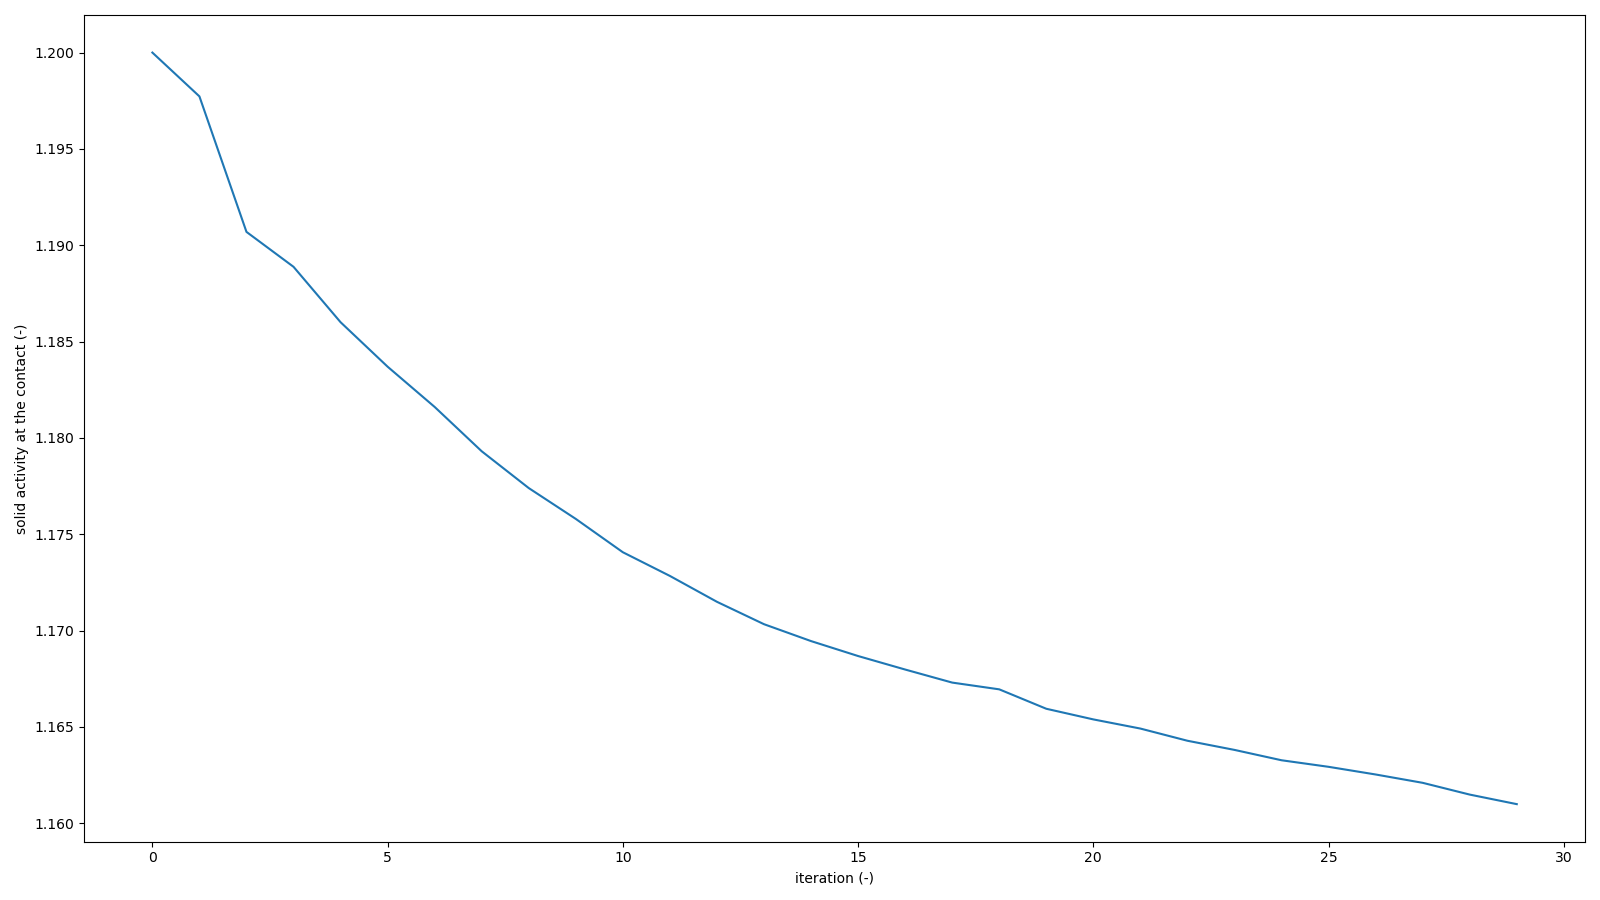
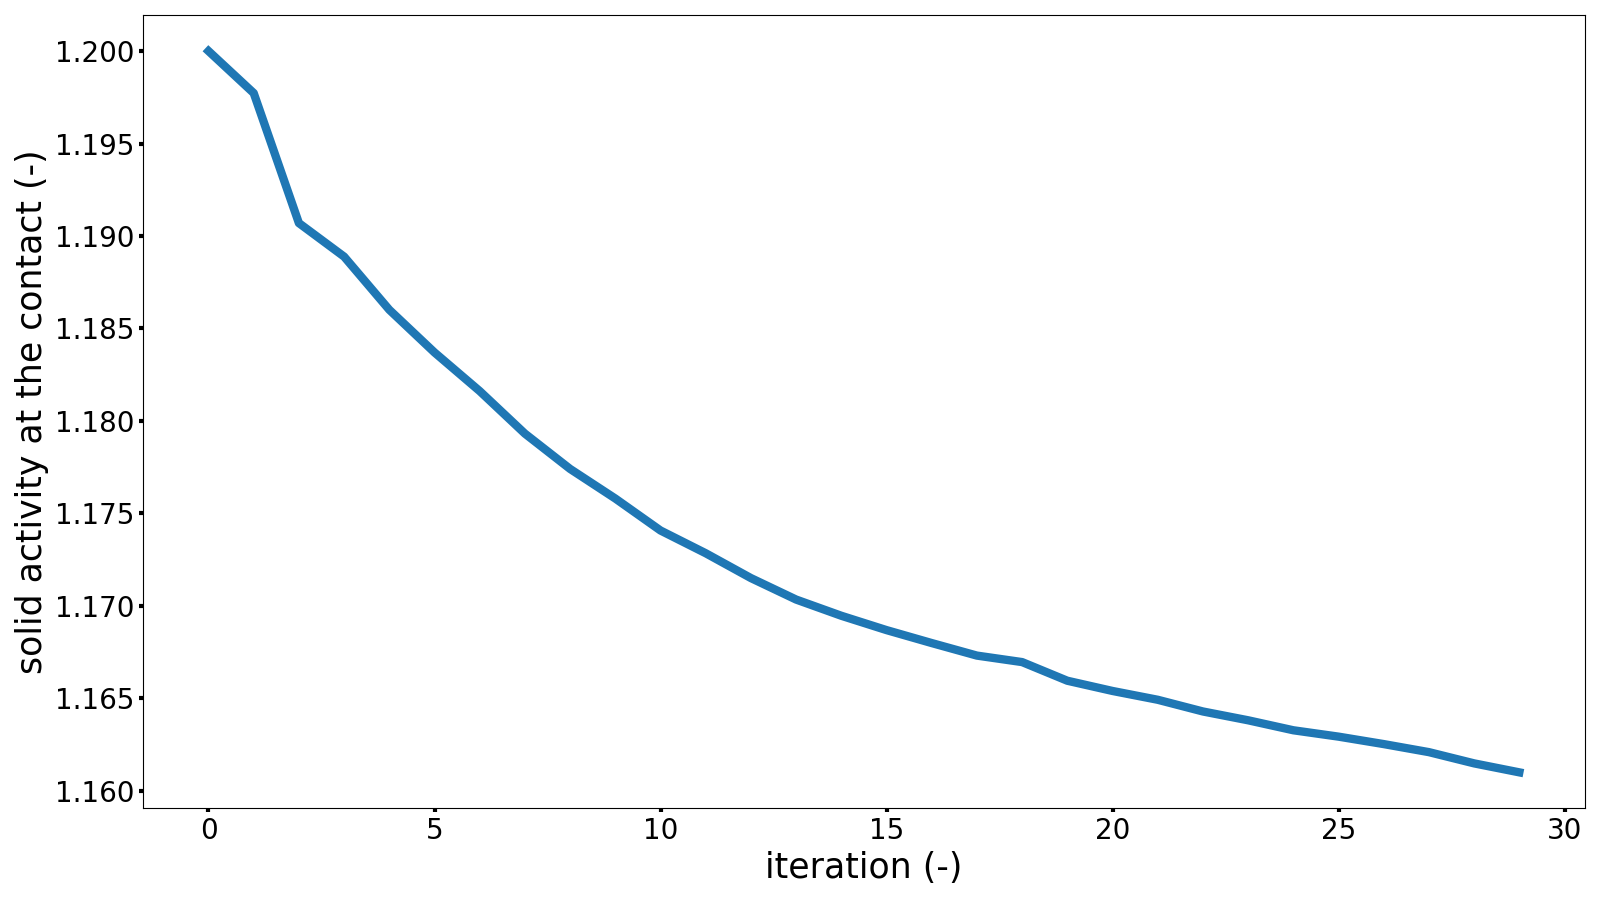
change figures

diff --git a/docs/examples/micro_alteration/case4_pressure_solution/case4_pressure_solution.md b/docs/examples/micro_alteration/case4_pressure_solution/case4_pressure_solution.md
@@ -1,6 +1,6 @@
 # Coupling the Phase-Field approach with a Discrete Element Model to investigate Pressure-Solution
 
-TO DO figure free energy / links with repositories / glow up figures
+TO DO figure free energy / links with repositories 
 
 
 [Download the files](./case4_pressure_solution_files.zip)
